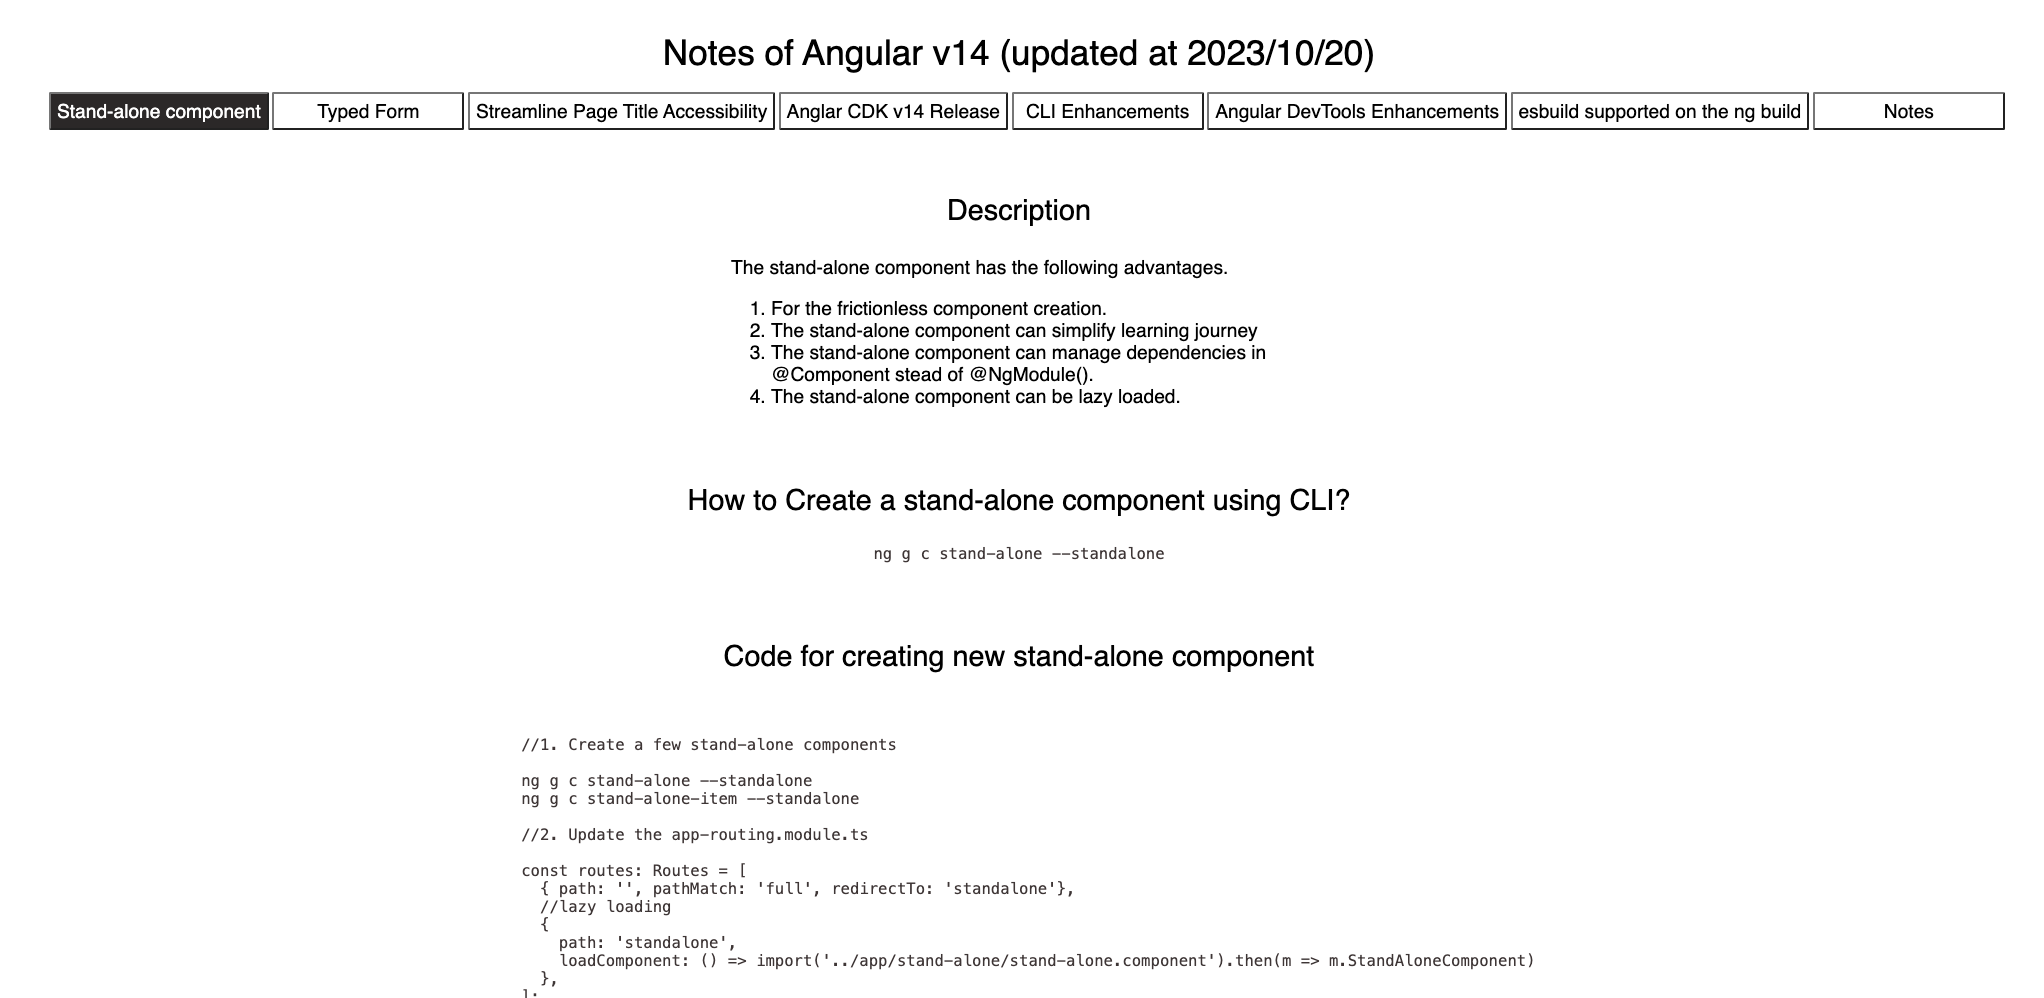
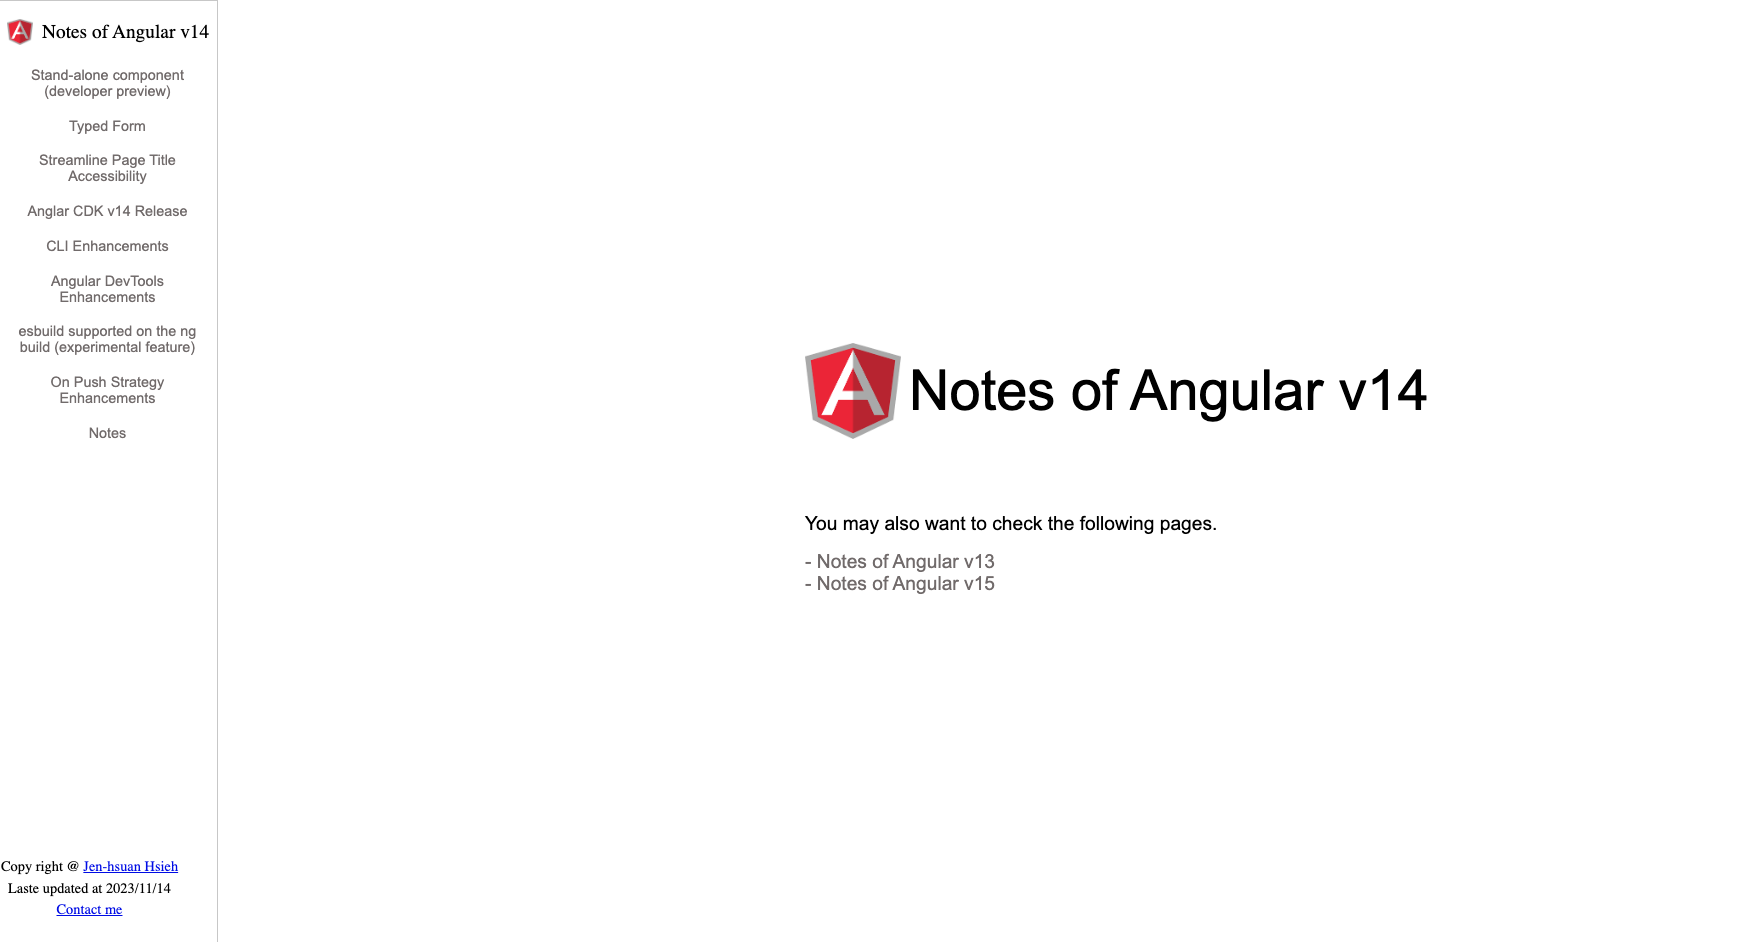
update

diff --git a/src/app/home/home.component.scss b/src/app/home/home.component.scss
@@ -1,0 +1,59 @@
+.home-container {
+  display: flex;
+  flex-direction: column;
+  align-items: center;
+  justify-content: center;
+  height: 100%;
+  width: 100%;
+  .item-container {
+    position: relative;
+    .title-container {
+      position: relative;
+      display: flex;
+      margin-bottom: 1.5em;
+      .image-container {
+        display: flex;
+        align-items: center;
+        justify-content: center;
+        img {
+          width: 6em;
+          height: 6em;
+          line-height: 6em;
+          margin-right: .5em;
+        }
+      }
+      .title {
+        font-size: 3.5em;
+        line-height: 3.5em;
+        font-family: Arial, Helvetica, sans-serif;
+      }
+    }
+  
+    .history-container {
+      position: relative;
+      .title {
+        font-family: Arial, Helvetica, sans-serif;
+        font-size: 1.2em;
+      }
+      .histories {
+        font-family: Arial, Helvetica, sans-serif;
+        ul {
+          list-style-type: none;
+          padding-left: 0em;
+          cursor: pointer;
+          color: #7c7676;
+          li {
+            a {
+              color: #7c7676;
+              font-size: 1.2em;
+              text-decoration: none;
+              &:hover {
+                color: #000;
+              }
+            }
+          }
+        }
+      }
+    }
+  }
+}

diff --git a/src/app/home/home.component.html b/src/app/home/home.component.html
@@ -1,0 +1,27 @@
+<div class="home-container">
+  <div class="item-container">
+    <div class="title-container">
+      <div class="image-container">
+        <img src="../assets/image/angular-logo.png" alt="">
+      </div>
+      <div class="title">
+        Notes of Angular v14
+      </div>
+    </div>
+    <div class="history-container">
+      <div class="title">
+        You may also want to check the following pages.
+      </div>
+      <div class="histories">
+        <ul>
+          <li>
+            <a href="https://profound-kangaroo-9db0c6.netlify.app/">- Notes of Angular v13</a>
+          </li>
+          <li>
+            <a href="https://verdant-fenglisu-1b7a2d.netlify.app/">- Notes of Angular v15</a>
+          </li>
+        </ul>
+      </div>
+    </div>
+  </div>
+</div>

diff --git a/src/app/app.component.scss b/src/app/app.component.scss
@@ -2,7 +2,7 @@
   height: 100%;
   display: flex;
   .sider-bar {
-    width: 15em;
+    width: 20em;
     background-color: #fff;
     .title {
       font-size: 1.1em;
@@ -37,6 +37,9 @@
       height: 100%;
       .title-container {
         display: flex;
+        text-decoration: none;
+        color: #000;
+        font-size: 1.1em;
         img {
           width: 1.5em;
           height: 1.5em;
@@ -69,16 +72,16 @@
         font-weight: 500;
       }
     }
-      
-    .tab-content {
-      padding: 1em;
-    }
   }
   .app-content {
     min-width: calc(100% - 20em);
     .portal-container {
-      min-height: calc(100vh - 100px);
+      height: calc(100vh - 100px);
       margin-top: .3em;
+      .tab-content {
+        padding: 1em;
+        height: 100%;
+      }
     }
   }
 }

diff --git a/src/app/app.component.ts b/src/app/app.component.ts
@@ -3,6 +3,7 @@ import { Router, RouterModule } from '@angular/router';
 import { CommonModule, Location } from '@angular/common';
 
 enum ROUTE_TYPE {
+  HOME = 'HOME',
   STAND_ALONE = 'STAND_ALONE',
   TYPED_FORM = 'TYPED_FORM',
   NOTES = 'NOTES',
@@ -16,6 +17,7 @@ enum ROUTE_TYPE {
 };
 
 const ROUTE_MAP = new Map<string, ROUTE_TYPE>([
+  ['/home', ROUTE_TYPE.HOME],
   ['/standalone', ROUTE_TYPE.STAND_ALONE],
   ['/notes', ROUTE_TYPE.NOTES],
   ['/typedform', ROUTE_TYPE.TYPED_FORM],
@@ -38,7 +40,7 @@ const ROUTE_MAP = new Map<string, ROUTE_TYPE>([
 export class AppComponent {
   title = 'Notes of Angular v14';
   updateTime = '2023/11/14';
-  selectedRoute = ROUTE_TYPE.STAND_ALONE;
+  selectedRoute = ROUTE_TYPE.HOME;
   route: string;
 
   constructor(

diff --git a/src/app/home/home.component.spec.ts b/src/app/home/home.component.spec.ts
@@ -1,0 +1,23 @@
+import { ComponentFixture, TestBed } from '@angular/core/testing';
+
+import { HomeComponent } from './home.component';
+
+describe('HomeComponent', () => {
+  let component: HomeComponent;
+  let fixture: ComponentFixture<HomeComponent>;
+
+  beforeEach(async () => {
+    await TestBed.configureTestingModule({
+      imports: [ HomeComponent ]
+    })
+    .compileComponents();
+
+    fixture = TestBed.createComponent(HomeComponent);
+    component = fixture.componentInstance;
+    fixture.detectChanges();
+  });
+
+  it('should create', () => {
+    expect(component).toBeTruthy();
+  });
+});

diff --git a/src/app/app-routing.module.ts b/src/app/app-routing.module.ts
@@ -2,7 +2,12 @@ import { NgModule } from '@angular/core';
 import { RouterModule, Routes } from '@angular/router';
 
 export const routes: Routes = [
-  { path: '', pathMatch: 'full', redirectTo: 'standalone'},
+  { path: '', pathMatch: 'full', redirectTo: 'home'},
+  {
+    path: 'home',
+    loadComponent: () => import('../app/home/home.component').then(m => m.HomeComponent),
+    title: 'Angular 15'
+  },
   //lazy loading
   {
     path: 'standalone',

diff --git a/src/app/home/home.component.ts b/src/app/home/home.component.ts
@@ -1,0 +1,18 @@
+import { Component, OnInit } from '@angular/core';
+import { CommonModule } from '@angular/common';
+
+@Component({
+  selector: 'app-home',
+  standalone: true,
+  imports: [CommonModule],
+  templateUrl: './home.component.html',
+  styleUrls: ['./home.component.scss']
+})
+export class HomeComponent implements OnInit {
+
+  constructor() { }
+
+  ngOnInit(): void {
+  }
+
+}
